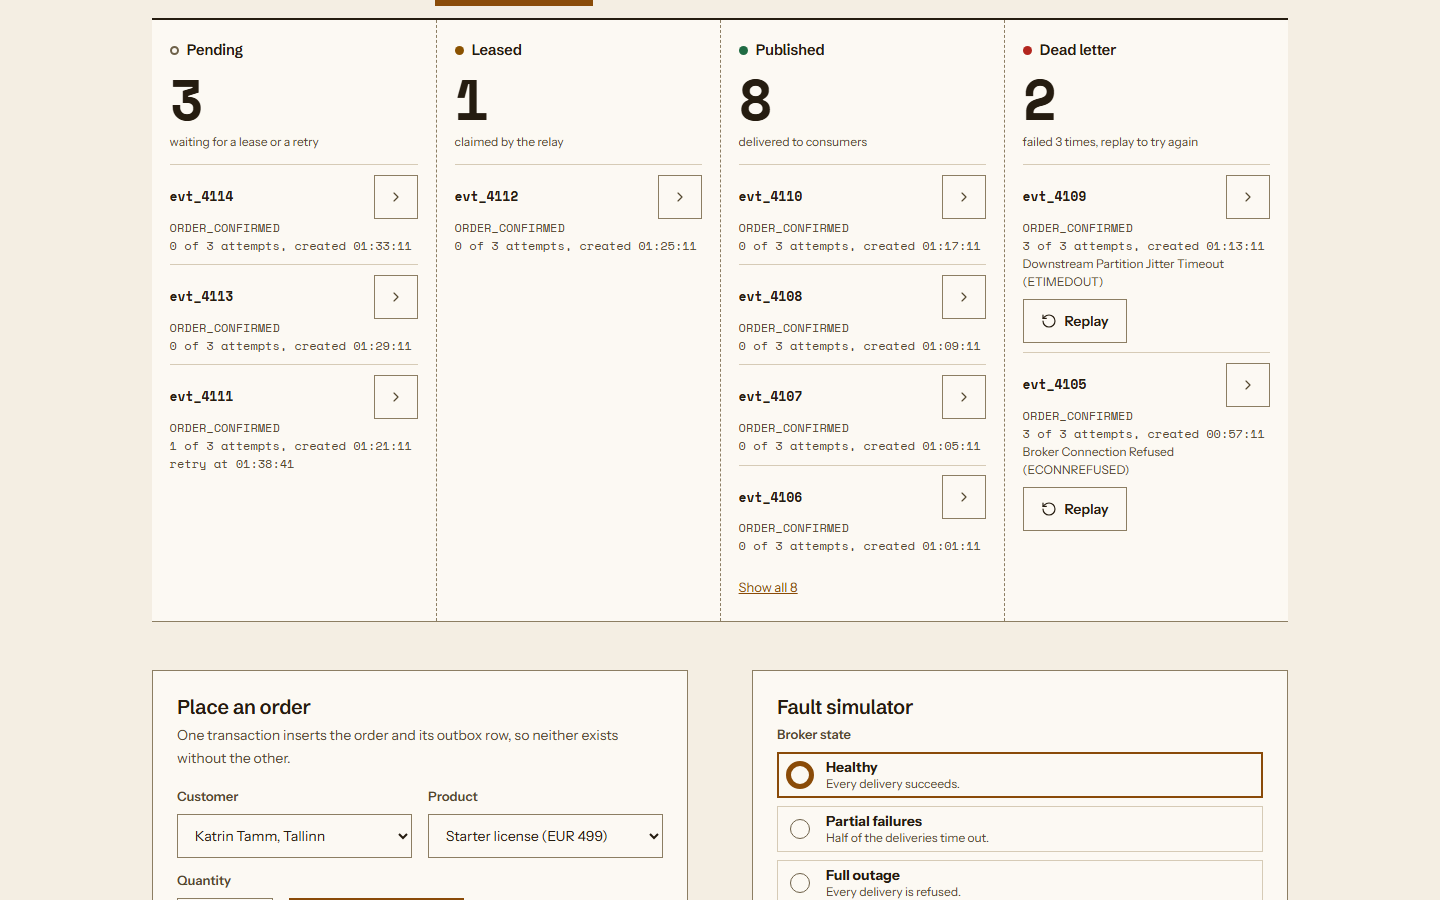
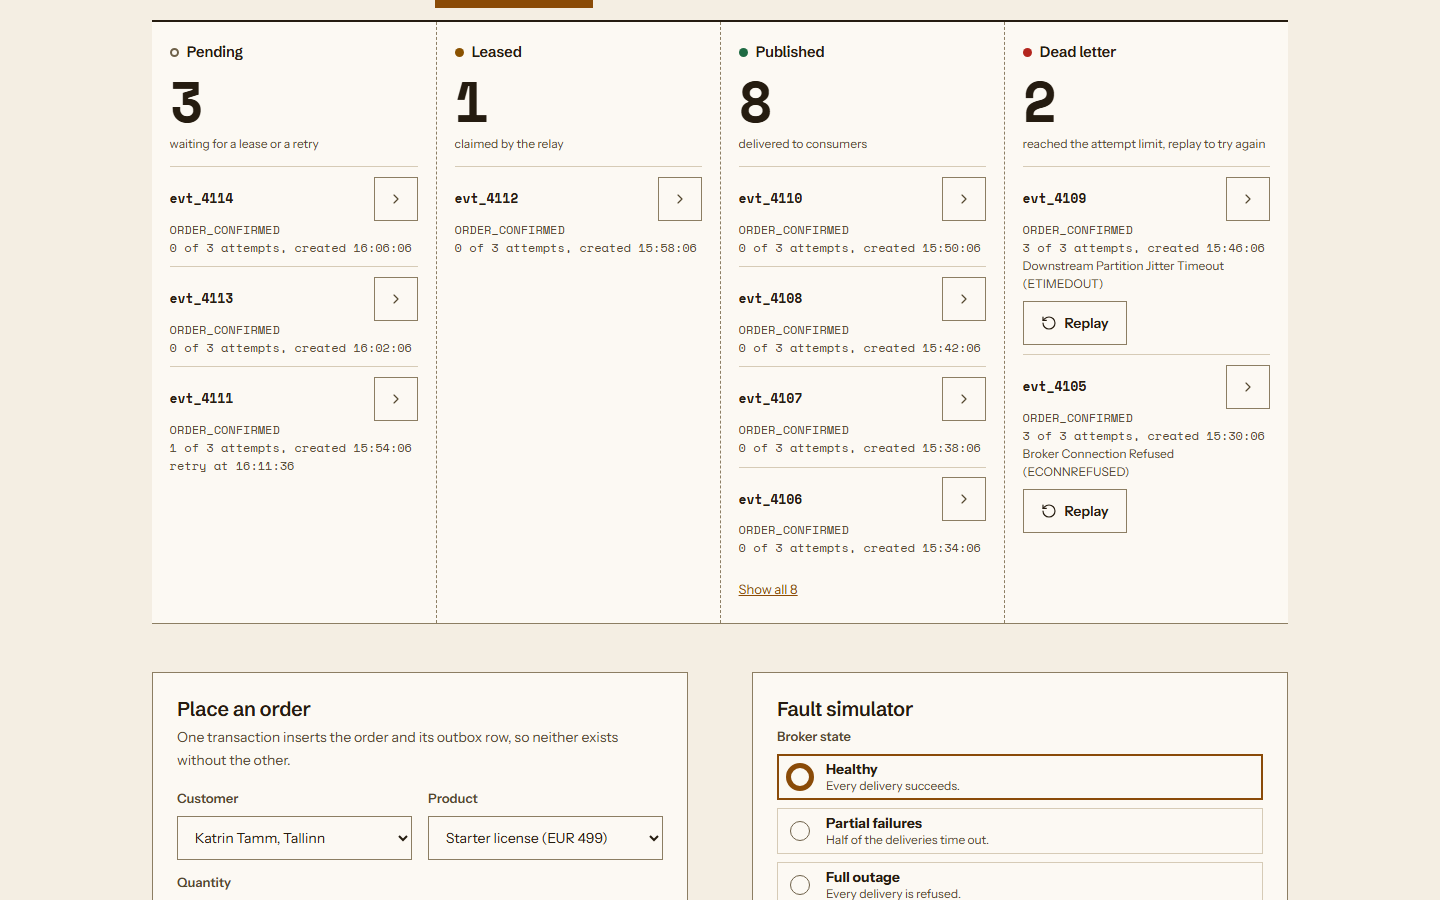
Set the retry policy from the fault simulator
A retry policy form next to the broker settings changes the attempt
limit, first retry delay and longest delay, and shows the server's
reason when a policy is rejected. The retry schedule text, the attempt
counts on each row and the dead-letter lane hint now read the saved
policy instead of fixed constants. README, changelog and screenshots
updated.

diff --git a/client/src/components/FaultSimulator.tsx b/client/src/components/FaultSimulator.tsx
@@ -1,7 +1,7 @@
 import React, { useEffect, useState } from 'react';
-import type { BrokerFaultConfig, OutboxEvent, PollCycleResult } from '../../../shared/types.js';
-import { BACKOFF_BASE_MS, MAX_ATTEMPTS, backoffDelayMs } from '../../../shared/outbox-logic.js';
-import { updateBrokerFault } from '../services/index.js';
+import type { BrokerFaultConfig, OutboxEvent, PollCycleResult, RetryPolicy } from '../../../shared/types.js';
+import { RETRY_POLICY_LIMITS, retrySchedule } from '../../../shared/outbox-logic.js';
+import { updateBrokerFault, updateRetryPolicy } from '../services/index.js';
 import { formatClock } from '../utils/format.js';
 
 type Mode = BrokerFaultConfig['mode'];
@@ -10,8 +10,36 @@ interface FaultSimulatorProps {
   currentMode: Mode;
   lastCycle: PollCycleResult | null;
   retrying: OutboxEvent[];
+  retryPolicy: RetryPolicy;
   onConfigChanged: () => void;
 }
+
+const POLICY_FIELDS: Array<{ key: keyof RetryPolicy; id: string; label: string }> = [
+  { key: 'maxAttempts', id: 'policy-attempts', label: 'Attempt limit' },
+  { key: 'backoffBaseMs', id: 'policy-base', label: 'First retry delay (ms)' },
+  { key: 'backoffMaxMs', id: 'policy-max', label: 'Longest delay (ms)' },
+];
+
+function formatSeconds(ms: number): string {
+  return `${Number((ms / 1000).toFixed(1))} s`;
+}
+
+/** One sentence describing what happens after each failure under the policy. */
+export function describeRetryPolicy(policy: RetryPolicy): string {
+  if (policy.maxAttempts === 1) {
+    return 'A failed delivery is not retried: the first failure moves the event to the dead-letter queue.';
+  }
+  const schedule = retrySchedule(policy).map(formatSeconds).join(', ');
+  return `A failed delivery is retried after ${schedule} (starting at ${formatSeconds(policy.backoffBaseMs)}, doubling each time, at most ${formatSeconds(policy.backoffMaxMs)}). Failure number ${policy.maxAttempts} moves the event to the dead-letter queue.`;
+}
+
+type PolicyDraft = Record<keyof RetryPolicy, string>;
+
+const toDraft = (policy: RetryPolicy): PolicyDraft => ({
+  maxAttempts: String(policy.maxAttempts),
+  backoffBaseMs: String(policy.backoffBaseMs),
+  backoffMaxMs: String(policy.backoffMaxMs),
+});
 
 const MODES: Array<{ value: Mode; label: string; detail: string }> = [
   { value: 'HEALTHY', label: 'Healthy', detail: 'Every delivery succeeds.' },
@@ -19,15 +47,45 @@ const MODES: Array<{ value: Mode; label: string; detail: string }> = [
   { value: 'FULL_OUTAGE', label: 'Full outage', detail: 'Every delivery is refused.' },
 ];
 
-export const FaultSimulator: React.FC<FaultSimulatorProps> = ({ currentMode, lastCycle, retrying, onConfigChanged }) => {
+export const FaultSimulator: React.FC<FaultSimulatorProps> = ({ currentMode, lastCycle, retrying, retryPolicy, onConfigChanged }) => {
   const [selectedMode, setSelectedMode] = useState<Mode>(currentMode);
   const [latencyMs, setLatencyMs] = useState(30);
   const [isUpdating, setIsUpdating] = useState(false);
   const [message, setMessage] = useState<{ text: string; failed: boolean } | null>(null);
 
+  const [policyDraft, setPolicyDraft] = useState<PolicyDraft>(() => toDraft(retryPolicy));
+  const [isSavingPolicy, setIsSavingPolicy] = useState(false);
+  const [policyMessage, setPolicyMessage] = useState<{ text: string; failed: boolean } | null>(null);
+  const { maxAttempts, backoffBaseMs, backoffMaxMs } = retryPolicy;
+
   useEffect(() => {
     setSelectedMode(currentMode);
   }, [currentMode]);
+
+  // Follow the saved policy when it changes (after an apply, a demo reset or another client).
+  useEffect(() => {
+    setPolicyDraft(toDraft({ maxAttempts, backoffBaseMs, backoffMaxMs }));
+  }, [maxAttempts, backoffBaseMs, backoffMaxMs]);
+
+  const handlePolicyApply = async (e: React.FormEvent) => {
+    e.preventDefault();
+    setIsSavingPolicy(true);
+    setPolicyMessage(null);
+    try {
+      const saved = await updateRetryPolicy({
+        maxAttempts: Number(policyDraft.maxAttempts),
+        backoffBaseMs: Number(policyDraft.backoffBaseMs),
+        backoffMaxMs: Number(policyDraft.backoffMaxMs),
+      });
+      const attempts = saved.maxAttempts === 1 ? '1 attempt' : `${saved.maxAttempts} attempts`;
+      setPolicyMessage({ text: `Retry policy saved: ${attempts} before dead letter. It applies from each event's next failure.`, failed: false });
+      onConfigChanged();
+    } catch (err) {
+      setPolicyMessage({ text: err instanceof Error ? err.message : 'The retry policy could not be changed', failed: true });
+    } finally {
+      setIsSavingPolicy(false);
+    }
+  };
 
   const handleApply = async (e: React.FormEvent) => {
     e.preventDefault();
@@ -43,8 +101,6 @@ export const FaultSimulator: React.FC<FaultSimulatorProps> = ({ currentMode, las
       setIsUpdating(false);
     }
   };
-
-  const schedule = Array.from({ length: MAX_ATTEMPTS - 1 }, (_, i) => `${backoffDelayMs(i + 1) / 1000} s`).join(', ');
 
   return (
     <section aria-labelledby="faults-heading">
@@ -98,6 +154,39 @@ export const FaultSimulator: React.FC<FaultSimulatorProps> = ({ currentMode, las
           <output className="form-result">{message && <span className={message.failed ? 'text-bad' : undefined}>{message.text}</span>}</output>
         </form>
 
+        <form onSubmit={handlePolicyApply} className="fault-form" aria-labelledby="retry-policy-heading">
+          <h3 id="retry-policy-heading" className="panel-heading">
+            Retry policy
+          </h3>
+          <div className="policy-fields">
+            {POLICY_FIELDS.map((field) => (
+              <div key={field.key} className="field">
+                <label className="field-label" htmlFor={field.id}>
+                  {field.label}
+                </label>
+                <input
+                  id={field.id}
+                  type="number"
+                  inputMode="numeric"
+                  required
+                  min={RETRY_POLICY_LIMITS[field.key].min}
+                  max={RETRY_POLICY_LIMITS[field.key].max}
+                  step={1}
+                  value={policyDraft[field.key]}
+                  onChange={(e) => setPolicyDraft((draft) => ({ ...draft, [field.key]: e.target.value }))}
+                  disabled={isSavingPolicy}
+                />
+              </div>
+            ))}
+          </div>
+          <button type="submit" className="btn btn-secondary" disabled={isSavingPolicy}>
+            {isSavingPolicy ? 'Saving' : 'Apply retry policy'}
+          </button>
+          <output className="form-result">
+            {policyMessage && <span className={policyMessage.failed ? 'text-bad' : undefined}>{policyMessage.text}</span>}
+          </output>
+        </form>
+
         <div className="fault-results">
           <h3 className="panel-heading">Last relay cycle</h3>
           {lastCycle ? (
@@ -129,7 +218,7 @@ export const FaultSimulator: React.FC<FaultSimulatorProps> = ({ currentMode, las
 
           <h3 className="panel-heading">Waiting for retry</h3>
           <p className="section-description">
-            {`A failed delivery is retried after ${schedule} (starting at ${BACKOFF_BASE_MS / 1000} s, doubling each time). Failure number ${MAX_ATTEMPTS} moves the event to the dead-letter queue.`}
+            {describeRetryPolicy(retryPolicy)}
           </p>
           {retrying.length === 0 ? (
             <p className="empty-note">No events are waiting for a retry.</p>
@@ -138,7 +227,7 @@ export const FaultSimulator: React.FC<FaultSimulatorProps> = ({ currentMode, las
               {retrying.map((evt) => (
                 <li key={evt.id} className="dense-item">
                   <span className="mono item-title">{evt.id}</span>
-                  <span className="item-meta mono">{`${evt.retryCount} of ${MAX_ATTEMPTS} attempts`}</span>
+                  <span className="item-meta mono">{`${evt.retryCount} of ${maxAttempts} attempts`}</span>
                   <span className="item-meta mono">{evt.availableAt ? `retry at ${formatClock(evt.availableAt)}` : 'due now'}</span>
                 </li>
               ))}

diff --git a/client/src/test/App.test.tsx b/client/src/test/App.test.tsx
@@ -60,6 +60,7 @@ type Call = { url: string; method: string; body: unknown };
 let calls: Call[];
 let failStats = false;
 let failPoll = false;
+let policyError: string | null = null;
 
 function installFetch() {
   calls = [];
@@ -68,10 +69,16 @@ function installFetch() {
     calls.push({ url, method, body: init?.body ? JSON.parse(String(init.body)) : undefined });
     const ok = (data: unknown) => ({ ok: true, json: async () => ({ success: true, data }) });
     if (url.endsWith('/stats')) {
-      return failStats ? { ok: false, statusText: 'Server Error', json: async () => ({ error: 'database is locked' }) } : ok(mockStats);
+      return failStats ? { ok: false, statusText: 'Server Error', json: async () => ({ error: 'database is locked' }) } : ok({ ...mockStats });
     }
     if (url.endsWith('/outbox/poll')) {
       return failPoll ? { ok: false, statusText: 'Bad Request', json: async () => ({ error: 'batchSize must be an integer' }) } : ok(cycle);
+    }
+    if (url.endsWith('/outbox/retry-policy') && method === 'POST') {
+      if (policyError) return { ok: false, statusText: 'Bad Request', json: async () => ({ success: false, error: policyError }) };
+      const body = JSON.parse(String(init!.body));
+      mockStats.retryPolicy = { ...mockStats.retryPolicy, ...body };
+      return ok(mockStats.retryPolicy);
     }
     if (url.includes('/outbox/events?status=DEAD_LETTER')) return ok(mockEvents.filter((e) => e.status === 'DEAD_LETTER'));
     if (url.includes('/retry')) return { ok: true, json: async () => ({ success: true }) };
@@ -90,6 +97,8 @@ describe('OutboxRelay operations console', () => {
   beforeEach(() => {
     failStats = false;
     failPoll = false;
+    policyError = null;
+    mockStats.retryPolicy = { maxAttempts: 3, backoffBaseMs: 2000, backoffMaxMs: 60000 };
     installFetch();
   });
 
@@ -200,6 +209,41 @@ describe('OutboxRelay operations console', () => {
     await waitFor(() => expect(calledWith('POST', '/broker/fault-config')).toHaveLength(1));
     expect(calledWith('POST', '/broker/fault-config')[0].body).toEqual({ mode: 'FULL_OUTAGE', simulatedLatencyMs: 30 });
     expect(await screen.findByText('Broker set to full outage.')).toBeInTheDocument();
+  });
+
+  it('changes the retry policy and shows the new schedule', async () => {
+    const user = userEvent.setup();
+    render(<App />);
+    await screen.findByText('98.3%');
+    expect(screen.getByLabelText('Attempt limit')).toHaveValue(3);
+    expect(screen.getAllByText(/^1 of 3 attempts/).length).toBeGreaterThan(0);
+
+    const attempts = screen.getByLabelText('Attempt limit');
+    await user.clear(attempts);
+    await user.type(attempts, '4');
+    const base = screen.getByLabelText('First retry delay (ms)');
+    await user.clear(base);
+    await user.type(base, '500');
+    await user.click(screen.getByRole('button', { name: 'Apply retry policy' }));
+
+    await waitFor(() => expect(calledWith('POST', '/outbox/retry-policy')).toHaveLength(1));
+    expect(calledWith('POST', '/outbox/retry-policy')[0].body).toEqual({ maxAttempts: 4, backoffBaseMs: 500, backoffMaxMs: 60000 });
+    expect(await screen.findByText(/Retry policy saved: 4 attempts before dead letter/)).toBeInTheDocument();
+    expect(await screen.findByText(/retried after 0\.5 s, 1 s, 2 s \(starting at 0\.5 s/)).toBeInTheDocument();
+    expect(screen.getAllByText(/^1 of 4 attempts/).length).toBeGreaterThan(0);
+  });
+
+  it('reports a rejected retry policy and keeps the saved one', async () => {
+    policyError = 'backoffMaxMs (1000) must be at least backoffBaseMs (2000)';
+    const user = userEvent.setup();
+    render(<App />);
+    await screen.findByText('98.3%');
+    const max = screen.getByLabelText('Longest delay (ms)');
+    await user.clear(max);
+    await user.type(max, '1000');
+    await user.click(screen.getByRole('button', { name: 'Apply retry policy' }));
+    expect(await screen.findByText(policyError)).toHaveClass('text-bad');
+    expect(screen.getByText(/retried after 2 s, 4 s/)).toBeInTheDocument();
   });
 
   it('lists events waiting for a retry in the fault simulator', async () => {

diff --git a/client/src/components/Pipeline.tsx b/client/src/components/Pipeline.tsx
@@ -1,7 +1,6 @@
 import React, { useState } from 'react';
 import { ChevronDown, ChevronRight, Play, RotateCcw } from 'lucide-react';
 import type { OutboxEvent, OutboxEventStatus } from '../../../shared/types.js';
-import { MAX_ATTEMPTS } from '../../../shared/outbox-logic.js';
 import { retryDeadLetter } from '../services/index.js';
 import { formatClock } from '../utils/format.js';
 import { formatCount } from '../utils/pluralize.js';
@@ -10,7 +9,7 @@ const LANES: Array<{ status: OutboxEventStatus; title: string; hint: string; ton
   { status: 'PENDING', title: 'Pending', hint: 'waiting for a lease or a retry', tone: 'idle' },
   { status: 'LEASED', title: 'Leased', hint: 'claimed by the relay', tone: 'warn' },
   { status: 'PUBLISHED', title: 'Published', hint: 'delivered to consumers', tone: 'ok' },
-  { status: 'DEAD_LETTER', title: 'Dead letter', hint: `failed ${MAX_ATTEMPTS} times, replay to try again`, tone: 'bad' },
+  { status: 'DEAD_LETTER', title: 'Dead letter', hint: 'reached the attempt limit, replay to try again', tone: 'bad' },
 ];
 
 const VISIBLE_ROWS = 4;
@@ -18,11 +17,13 @@ const VISIBLE_ROWS = 4;
 interface PipelineProps {
   events: OutboxEvent[];
   isPolling: boolean;
+  /** Attempt limit of the current retry policy. */
+  maxAttempts: number;
   onPollNow: () => void;
   onReplayed: () => void;
 }
 
-export const Pipeline: React.FC<PipelineProps> = ({ events, isPolling, onPollNow, onReplayed }) => {
+export const Pipeline: React.FC<PipelineProps> = ({ events, isPolling, maxAttempts, onPollNow, onReplayed }) => {
   const [expandedId, setExpandedId] = useState<string | null>(null);
   const [showAll, setShowAll] = useState<Record<string, boolean>>({});
   const [replayingId, setReplayingId] = useState<string | null>(null);
@@ -100,7 +101,7 @@ export const Pipeline: React.FC<PipelineProps> = ({ events, isPolling, onPollNow
                           </button>
                         </div>
                         <p className="row-meta mono">{evt.eventType}</p>
-                        <p className="row-meta mono">{`${evt.retryCount} of ${MAX_ATTEMPTS} attempts, created ${formatClock(evt.createdAt)}`}</p>
+                        <p className="row-meta mono">{`${evt.retryCount} of ${maxAttempts} attempts, created ${formatClock(evt.createdAt)}`}</p>
                         {retryAt && <p className="row-meta mono">{`retry at ${formatClock(retryAt)}`}</p>}
                         {evt.status === 'DEAD_LETTER' && (
                           <>

diff --git a/client/src/test/pipeline.test.tsx b/client/src/test/pipeline.test.tsx
@@ -23,7 +23,7 @@ describe('Pipeline lanes', () => {
   it('lists the newest rows first and expands the rest on demand', async () => {
     const user = userEvent.setup();
     const events = [1, 2, 3, 4, 5, 6].map(published);
-    render(<Pipeline events={events} isPolling={false} onPollNow={() => {}} onReplayed={() => {}} />);
+    render(<Pipeline events={events} isPolling={false} maxAttempts={3} onPollNow={() => {}} onReplayed={() => {}} />);
     const lane = screen.getByRole('heading', { name: 'Published' }).closest('section')!;
     expect(within(lane).getByText('6 rows')).toBeInTheDocument();
     expect(within(lane).getAllByRole('listitem')).toHaveLength(4);
@@ -35,7 +35,14 @@ describe('Pipeline lanes', () => {
   });
 
   it('disables the relay button while a cycle runs', () => {
-    render(<Pipeline events={[]} isPolling onPollNow={() => {}} onReplayed={() => {}} />);
+    render(<Pipeline events={[]} isPolling maxAttempts={3} onPollNow={() => {}} onReplayed={() => {}} />);
     expect(screen.getByRole('button', { name: 'Running cycle' })).toBeDisabled();
+  });
+
+  it('counts attempts against the current attempt limit', () => {
+    const waiting = { ...published(1), status: 'PENDING' as const, retryCount: 2, availableAt: Date.UTC(2026, 2, 1, 10, 1) };
+    render(<Pipeline events={[waiting]} isPolling={false} maxAttempts={5} onPollNow={() => {}} onReplayed={() => {}} />);
+    expect(screen.getByText(/^2 of 5 attempts/)).toBeInTheDocument();
+    expect(screen.getByText('reached the attempt limit, replay to try again')).toBeInTheDocument();
   });
 });

diff --git a/client/src/App.tsx b/client/src/App.tsx
@@ -1,5 +1,6 @@
 import React, { useState, useEffect, useCallback } from 'react';
 import type { OutboxStats, Order, OutboxEvent, PollCycleResult } from '../../shared/types.js';
+import { DEFAULT_RETRY_POLICY } from '../../shared/outbox-logic.js';
 import { fetchStats, fetchOrders, fetchOutboxEvents, triggerPoll } from './services/index.js';
 import { DemoBanner } from './components/DemoBanner.js';
 import { Header } from './components/Header.js';
@@ -57,6 +58,7 @@ export const App: React.FC = () => {
   };
 
   const retrying = events.filter((e) => e.status === 'PENDING' && e.retryCount > 0);
+  const retryPolicy = stats?.retryPolicy ?? DEFAULT_RETRY_POLICY;
 
   return (
     <div className="app-container">
@@ -75,7 +77,13 @@ export const App: React.FC = () => {
           </div>
         )}
 
-        <Pipeline events={events} isPolling={isPolling} onPollNow={handleManualPoll} onReplayed={() => void loadData()} />
+        <Pipeline
+          events={events}
+          isPolling={isPolling}
+          maxAttempts={retryPolicy.maxAttempts}
+          onPollNow={handleManualPoll}
+          onReplayed={() => void loadData()}
+        />
 
         <div className="below">
           <div className="below-col">
@@ -86,6 +94,7 @@ export const App: React.FC = () => {
             currentMode={stats?.brokerMode ?? 'HEALTHY'}
             lastCycle={lastCycle}
             retrying={retrying}
+            retryPolicy={retryPolicy}
             onConfigChanged={() => void loadData()}
           />
         </div>

diff --git a/client/src/App.css b/client/src/App.css
@@ -611,6 +611,17 @@ textarea {
   width: 100%;
 }
 
+.policy-fields {
+  display: grid;
+  grid-template-columns: repeat(auto-fit, minmax(9rem, 1fr));
+  gap: 0.75rem 1rem;
+  width: 100%;
+}
+
+.policy-fields .field {
+  justify-content: flex-end;
+}
+
 .result-list {
   display: grid;
   grid-template-columns: repeat(5, minmax(0, 1fr));

diff --git a/README.md b/README.md
@@ -16,7 +16,7 @@ The demo runs entirely in your browser. The same relay, backoff and validation c
 
 ![Four pipeline lanes: pending, leased, published and dead letter](docs/screenshots/01-dashboard.png)
 
-More screenshots: [the dead-letter lane and the lower panels](docs/screenshots/02-consumers-and-dead-letters.png), [the fault simulator after a full outage](docs/screenshots/03-fault-simulator.png), [the console at phone width](docs/screenshots/04-mobile.png), [the dead-letter inspector with one error group selected and the replay confirmation open](docs/screenshots/05-dead-letter-inspector.png).
+More screenshots: [the dead-letter lane and the lower panels](docs/screenshots/02-consumers-and-dead-letters.png), [the fault simulator with a four-attempt retry policy after a full outage](docs/screenshots/03-fault-simulator.png), [the console at phone width](docs/screenshots/04-mobile.png), [the dead-letter inspector with one error group selected and the replay confirmation open](docs/screenshots/05-dead-letter-inspector.png).
 
 ## Features
 
@@ -27,7 +27,7 @@ More screenshots: [the dead-letter lane and the lower panels](docs/screenshots/0
 - **Dead-letter queue.** Dead-lettered events keep their last error and can be replayed, which resets their attempts.
 - **Consumer inbox.** Each consumer records `(event id, consumer)` once. SQLite records or counts a repeated delivery in one atomic statement, including when relay workers use separate connections. A repeated delivery is counted and ignored.
   Receipt IDs are opaque: SQLite uses UUIDs, while the browser store allocates sequential IDs without reusing seeded receipt IDs. Existing receipt IDs remain unchanged.
-- **Fault simulator.** Switch the broker between healthy, partial failures (half of the deliveries fail) and full outage, and set the delivery latency.
+- **Fault simulator.** Switch the broker between healthy, partial failures (half of the deliveries fail) and full outage, and set the delivery latency. A retry policy form next to it changes the attempt limit, the first retry delay and the longest delay; the retry schedule text and the attempt counts on every row follow the saved policy.
 - **Dead-letter inspector.** Load the dead-letter lane or a JSON or CSV export, see the events grouped by their last error, pick groups and replay them in one step after a confirmation, or export their ids. See [Inspecting dead letters](#inspecting-dead-letters).
 - **Browser demo** for GitHub Pages with a demo bar and a reset control.
 
@@ -168,7 +168,7 @@ npm test
 ```
 
 - **Server** (Vitest and Supertest): routes and validation, transaction rollback, leasing and lease expiry, backoff timing, the retry policy (validation, custom schedules and attempt limits applied by later relay cycles), dead-lettering and replay (single and batch, with request validation), the consumer inbox, a migration from a database without `available_at`, the background poller, path resolution, and parity between the SQLite and in-memory stores.
-- **Client** (Vitest and React Testing Library): the tally, the four lanes with their row counts, the show-all toggle, the dead-letter replay, the order form, the fault simulator, error handling, the refresh timer, the browser demo API, the demo bar, and the dead-letter inspector (CSV and JSON parsing with its error messages, error grouping, replay list export, the delayed release of the download URL, and batch replay with its confirmation, skipped ids and failure message).
+- **Client** (Vitest and React Testing Library): the tally, the four lanes with their row counts, the show-all toggle, the dead-letter replay, the order form, the fault simulator and its retry policy form (saved policy, new schedule, rejected policy), error handling, the refresh timer, the browser demo API, the demo bar, and the dead-letter inspector (CSV and JSON parsing with its error messages, error grouping, replay list export, the delayed release of the download URL, and batch replay with its confirmation, skipped ids and failure message).
 - **Accessibility** (axe-core through vitest-axe): the suite includes automated accessibility checks for the lanes, the orders and consumers panels, the fault simulator, an opened row detail and the dead-letter inspector with groups loaded, using the WCAG 2 A and AA rules. jsdom cannot compute colors, so color contrast is checked outside jsdom.
 
 Tests that depend on time use fake timers; none of them sleep.

diff --git a/CHANGELOG.md b/CHANGELOG.md
@@ -19,6 +19,7 @@ The format is based on [Keep a Changelog](https://keepachangelog.com/en/1.1.0/).
 - An "Inspect dead letters" panel: load the dead-letter lane or a JSON or CSV file (`id,type,payload,retry_count,last_error`, or a saved dead-letter events response), see the events grouped by their last error with similar timeouts and ids merged, select the groups to replay and export their ids as JSON or CSV. A file with a problem is rejected with the file name, row and field. Files stay in the browser.
 - Replay selected error groups from the inspector in one step: a confirmation states the event and group counts, the ids go to the new `POST /api/outbox/dead-letters/retry` endpoint (up to 500 per request, applied in one SQLite transaction, with the same behavior in the browser demo), and the panel reports how many were replayed and how many were skipped because they were no longer dead-lettered.
 - A retry policy in place of the fixed attempt limit and backoff: `GET /api/outbox/retry-policy` reads it and `POST /api/outbox/retry-policy` changes `maxAttempts` (1 to 10), `backoffBaseMs` (100 to 60,000) and `backoffMaxMs` (100 to 600,000, at least the first delay). Later relay cycles use it in both stores and in the browser demo, and `GET /api/stats` reports it as `retryPolicy`. The default stays at three attempts with waits of 2 and 4 seconds.
+- A "Retry policy" form in the fault simulator sets the attempt limit, first retry delay and longest delay, reports a rejected policy with the server's reason, and the retry schedule, the "x of N attempts" counts and the dead-letter lane hint follow the saved policy.
 - A test that checks every scrollable container is a labelled, focusable region.
 - Automated accessibility checks for the four lanes, the orders and consumers panels, the fault simulator and an opened row detail, run with axe-core against the WCAG 2 A and AA rules. They found no violations, so no product code changed. Color contrast is checked outside the test suite because jsdom cannot compute colors.
 
